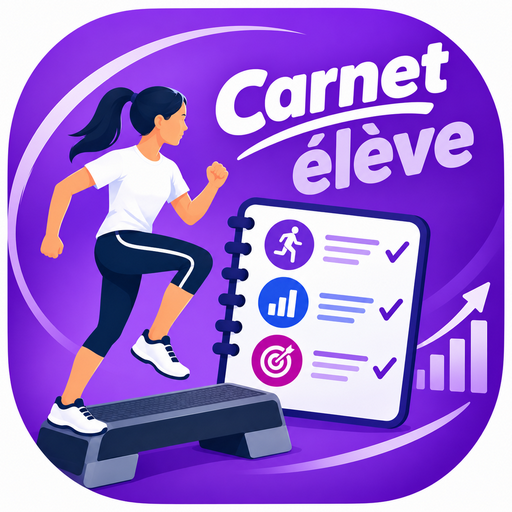
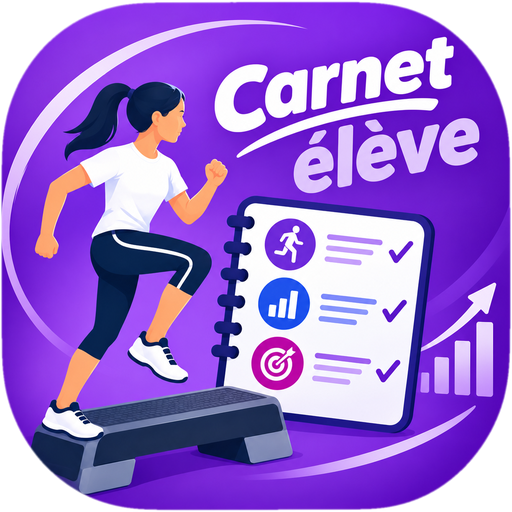
Icônes d'installation détourées (fond transparent) + maskable, manifeste corrigé
Claude-Session: https://claude.ai/code/session_01DWMzvDjuQqdn6i5FnQMur8

diff --git a/index.html b/index.html
@@ -1,5 +1,5 @@
 <!DOCTYPE html><html lang="fr"><head><meta charset="utf-8"><meta name="viewport" content="width=device-width,initial-scale=1,viewport-fit=cover"><title>StepCarnet – Carnet d'entraînement</title>
-<meta name="theme-color" content="#5b21b6"><link rel="manifest" href="manifest.webmanifest"><link rel="icon" href="icons/icon-192-stepeps-eleve.png"><link rel="stylesheet" href="css/style.css">
+<meta name="theme-color" content="#5b21b6"><link rel="apple-touch-icon" href="icons/icon-maskable-192.png"><link rel="manifest" href="manifest.webmanifest"><link rel="icon" href="icons/icon-192-stepeps-eleve.png"><link rel="stylesheet" href="css/style.css">
 <style id="titre-moderne">/* Titre en casse mixte + logo mis en valeur, aux couleurs du logo */
 header h1{font-family:system-ui,-apple-system,"Segoe UI",Roboto,sans-serif!important;font-style:italic!important;font-weight:900!important;text-transform:none!important;letter-spacing:.005em!important;line-height:1.08;font-size:2.1rem!important;background:none!important;-webkit-text-stroke:0!important;color:#fff!important;-webkit-text-fill-color:#fff!important;text-shadow:0 2px 0 #2a0a6b,0 4px 12px rgba(0,0,0,.45)!important}
 header h1 .tm{background:linear-gradient(180deg,#ffe3f7,#ff8ad8 72%)!important;-webkit-background-clip:text!important;background-clip:text!important;color:#ff8ad8!important;-webkit-text-fill-color:transparent!important;text-shadow:none!important;filter:drop-shadow(0 2px 0 #2a0a6b)}

diff --git a/sw.js b/sw.js
@@ -1,4 +1,4 @@
-const V='step-eleve-v7',F=['footer.js','nouveautes.js','nouveautes.json','./', 'index.html', 'eps-core.js', 'eleve-core.js', 'css/style.css', 'js/common.js', 'js/eleve.js', 'manifest.webmanifest', 'icons/icon-192-stepeps-eleve.png', 'icons/icon-512-stepeps-eleve.png', 'icons/icon-stepeps-eleve.png'];
+const V='step-eleve-v8',F=['footer.js','nouveautes.js','nouveautes.json','./', 'index.html', 'eps-core.js', 'eleve-core.js', 'css/style.css', 'js/common.js', 'js/eleve.js', 'manifest.webmanifest', 'icons/icon-192-stepeps-eleve.png', 'icons/icon-512-stepeps-eleve.png', 'icons/icon-stepeps-eleve.png'];
 const T=2500; // si le réseau ne répond pas en 2,5 s (wifi sans Internet, borne coupée…), on sert tout de suite la copie hors ligne
 const net=r=>new Promise((ok,ko)=>{const t=setTimeout(()=>ko(new Error('timeout')),T);fetch(r,{cache:'no-cache'}).then(x=>{clearTimeout(t);ok(x)},e=>{clearTimeout(t);ko(e)})});
 // Installation : chaque fichier est chargé séparément ; un fichier manquant ne bloque plus l'installation (donc le mode hors ligne).
